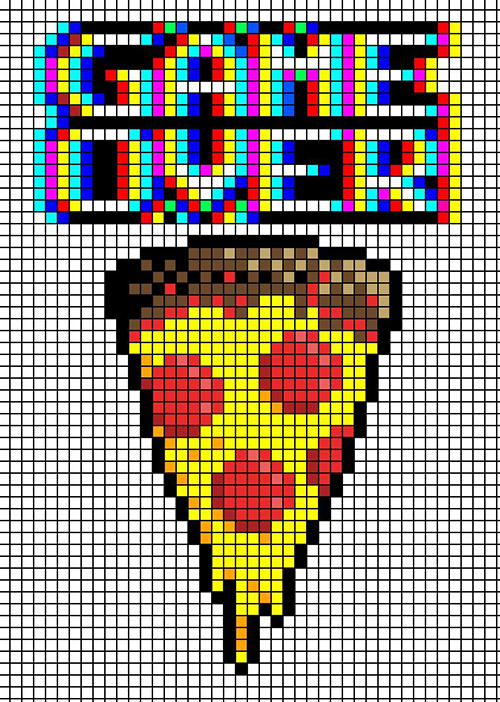
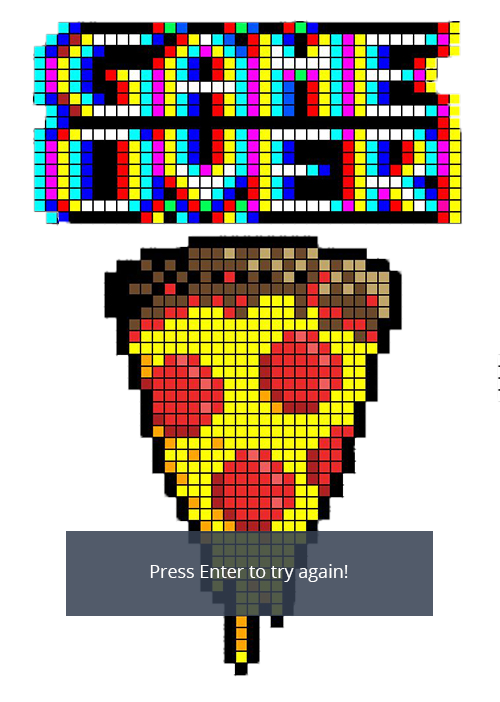
Improve difficulty and functionality
Added property for difficulty, made all platform generation dynamic.

Changed region(s): [[0.0, 0.0, 1.0, 1.0]]

diff --git a/lib/Game.js b/lib/Game.js
@@ -7,14 +7,15 @@ class Game {
     this.gameSize = gameSize;
     this.startPlatform = new Platform(0, gameSize.height - 15, gameSize.width, 15)
     this.player = new Player(this.gameSize.width / 2, this.gameSize.height - 75, 60, 60)
-    this.platforms = [new Platform ((Math.floor(Math.random() * 500)), this.gameSize.height - 125, 100, 15), 
-                      new Platform ((Math.floor(Math.random() * 500)), this.gameSize.height - 250, 100, 20), 
-                      new Platform ((Math.floor(Math.random() * 500)), this.gameSize.height - 375, 100, 20),
-                      new Platform ((Math.floor(Math.random() * 500)), this.gameSize.height - 500, 100, 20),
-                      new Platform ((Math.floor(Math.random() * 500)), this.gameSize.height - 625, 100, 20),
-                      new Platform ((Math.floor(Math.random() * 500)), this.gameSize.height - 750, 100, 20),
-                      new Platform ((Math.floor(Math.random() * 500)), this.gameSize.height - 825, 100, 20),
-                      new Platform ((Math.floor(Math.random() * 500)), this.gameSize.height - 950, 100, 20)];
+    this.difficultyLevel = {range: 300, center: 150};
+    this.platforms = [new Platform ((Math.floor(Math.random() * this.difficultyLevel.range) + (this.player.position.x - this.difficultyLevel.center)), this.gameSize.height - 125, 100, 15), 
+                      new Platform ((Math.floor(Math.random() * this.difficultyLevel.range) + (this.player.position.x - this.difficultyLevel.center)), this.gameSize.height - 250, 100, 20), 
+                      new Platform ((Math.floor(Math.random() * this.difficultyLevel.range) + (this.player.position.x - this.difficultyLevel.center)), this.gameSize.height - 375, 100, 20),
+                      new Platform ((Math.floor(Math.random() * this.difficultyLevel.range) + (this.player.position.x - this.difficultyLevel.center)), this.gameSize.height - 500, 100, 20),
+                      new Platform ((Math.floor(Math.random() * this.difficultyLevel.range) + (this.player.position.x - this.difficultyLevel.center)), this.gameSize.height - 625, 100, 20),
+                      new Platform ((Math.floor(Math.random() * this.difficultyLevel.range) + (this.player.position.x - this.difficultyLevel.center)), this.gameSize.height - 750, 100, 20),
+                      new Platform ((Math.floor(Math.random() * this.difficultyLevel.range) + (this.player.position.x - this.difficultyLevel.center)), this.gameSize.height - 825, 100, 20),
+                      new Platform ((Math.floor(Math.random() * this.difficultyLevel.range) + (this.player.position.x - this.difficultyLevel.center)), this.gameSize.height - 950, 100, 20)];
     this.score = 0;
   }
 
@@ -44,6 +45,7 @@ class Game {
           player.gravitySpeed = 0;
           this.score++;
           this.updatePlatformArr();
+          this.updateDifficulty();
           this.platforms.forEach( platform => platform.stop());
           this.platforms.forEach( platform => platform.accelerate(6, -0.1));
         }
@@ -52,18 +54,30 @@ class Game {
     }
     
     updatePlatformArr() {
-      if (this.platforms[7].position.y > 50) {
-        this.platforms.push(new Platform((Math.floor(Math.random() * 500)), 10, 100, 20));
+      console.log(this.score)
+      
+      if (this.platforms[7].position.y > 80) {
+        if (this.player.position.x > 700) {
+          this.platforms.push(new Platform((Math.floor(Math.random() * this.difficultyLevel.range) - this.player.position.x), 10, 100, 20));
+        } else if (this.player.position.x < 100) {
+          this.platforms.push(new Platform((Math.floor(Math.random() * this.difficultyLevel.range) + this.player.position.x), 10, 100, 20));
+        } else {
+          this.platforms.push(new Platform((Math.floor(Math.random() * this.difficultyLevel.range) + (this.player.position.x - this.difficultyLevel.center)), 10, 100, 20));
+        }
         this.platforms.shift();
+      }
     }
-    // if (this.score < 10) {
-    // } 
-    //  else if (this.score > 10 && this.score < 20) {
-    //   this.platforms.push(new Platform((Math.floor(Math.random() * 500)), 10, 80, 20));   
-    // } else if (this.score > 20) {
-    //   this.platforms.push(new Platform((Math.floor(Math.random() * 500)), 10, 60, 20));        
-    // }
-  }
+
+    updateDifficulty() {
+      if (this.score > 40) {
+        this.difficultyLevel.range = 400;
+        this.difficultyLevel.center = 200;
+      }
+      if (this.score > 60) {
+        this.difficultyLevel.range = 600;
+        this.difficultyLevel.center = 300;
+      }
+    }
 
   gameOver(ctx) {
     this.player.floorHit(this.gameSize, ctx);

diff --git a/lib/index.js b/lib/index.js
@@ -17,7 +17,6 @@ function gameLoop() {
 };
 
 function drawStartScreen() { //condition, if score is less than one, run. 
-  console.log('bang')
   const gameStartImg = new Image();
   gameStartImg.src = './../images/startscreen.gif';
   ctx.clearRect(0, 0, canvas.width, canvas.height);
@@ -43,7 +42,10 @@ window.addEventListener('keydown', function(event) {
     game.player.moveRight();
     break;
     
-    case 13: // StartGame
+    case 13: // Enter
+    if(game.player.position.y > canvas.height){
+      location.reload();
+    }
     gameLoop();    
     break;
   }

diff --git a/index.html b/index.html
@@ -7,7 +7,7 @@
 </head>
 <body>
   <canvas id="screen"
-  width="500"
+  width="800"
   height="700">
 </canvas>
   <script src="main.bundle.js"></script>
